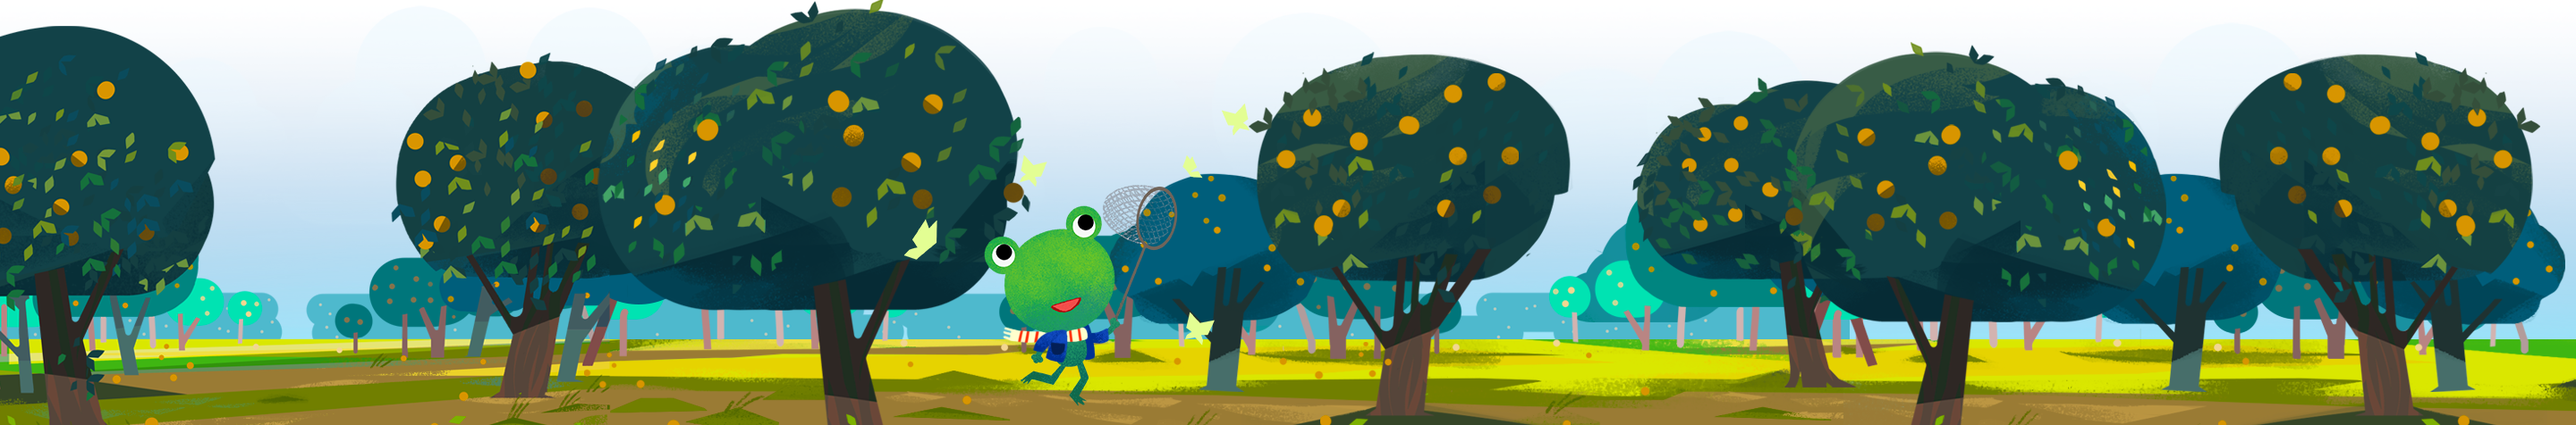
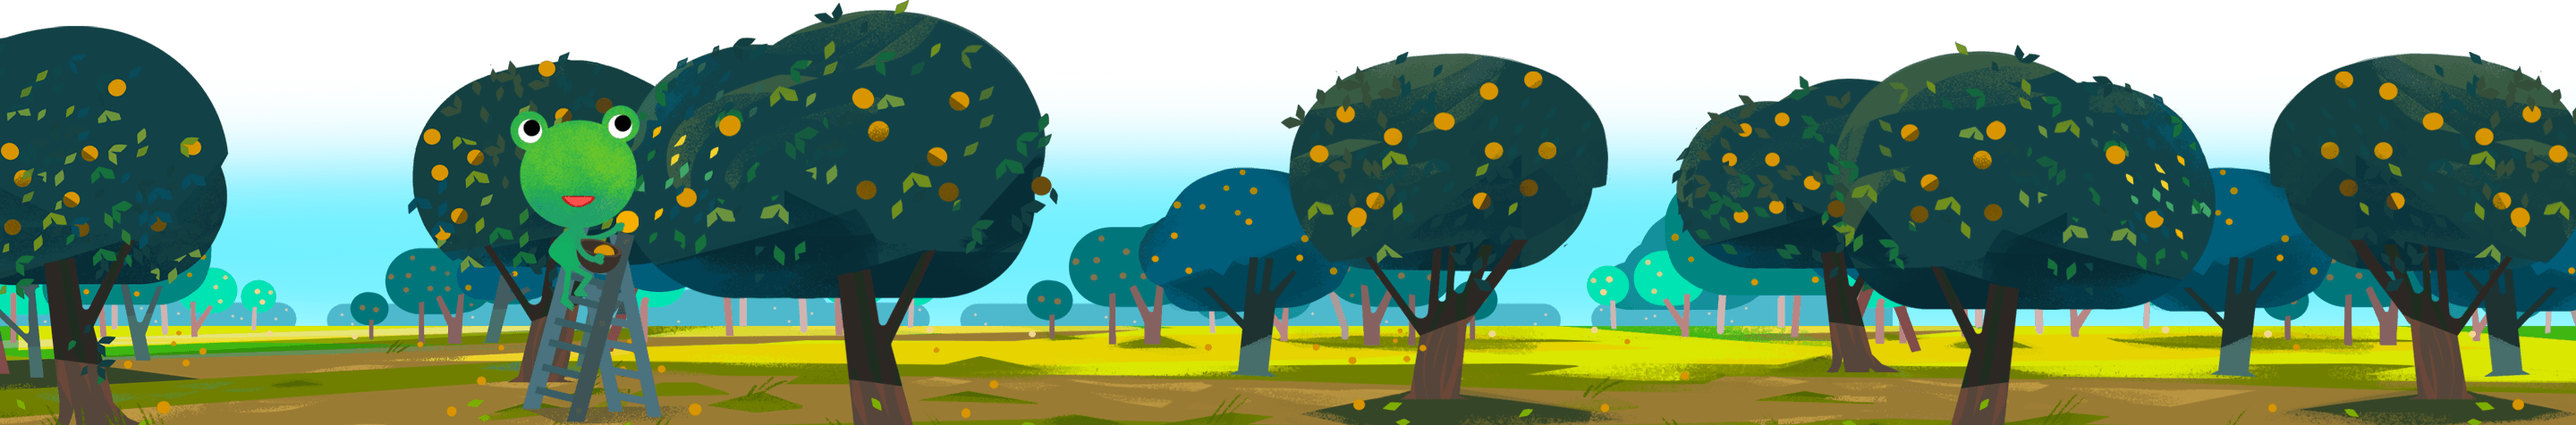
Update location weather.

diff --git a/locations/nieuwendijk/weather-frog.css b/locations/nieuwendijk/weather-frog.css
@@ -1,1 +1,1 @@
-.weather-frog { background: linear-gradient(top, #5192B9 0%, #65ACD7 100%); background: -moz-linear-gradient(top, #5192B9 0%, #65ACD7 100%); background: -ms-linear-gradient(top, #5192B9 0%, #65ACD7 100%); background: -o-linear-gradient(top, #5192B9 0%, #65ACD7 100%); background: -webkit-linear-gradient(top, #5192B9 0%, #65ACD7 100%); }
+.weather-frog { background: linear-gradient(top, #45B5E5 0%, #76CEE9 100%); background: -moz-linear-gradient(top, #45B5E5 0%, #76CEE9 100%); background: -ms-linear-gradient(top, #45B5E5 0%, #76CEE9 100%); background: -o-linear-gradient(top, #45B5E5 0%, #76CEE9 100%); background: -webkit-linear-gradient(top, #45B5E5 0%, #76CEE9 100%); }
